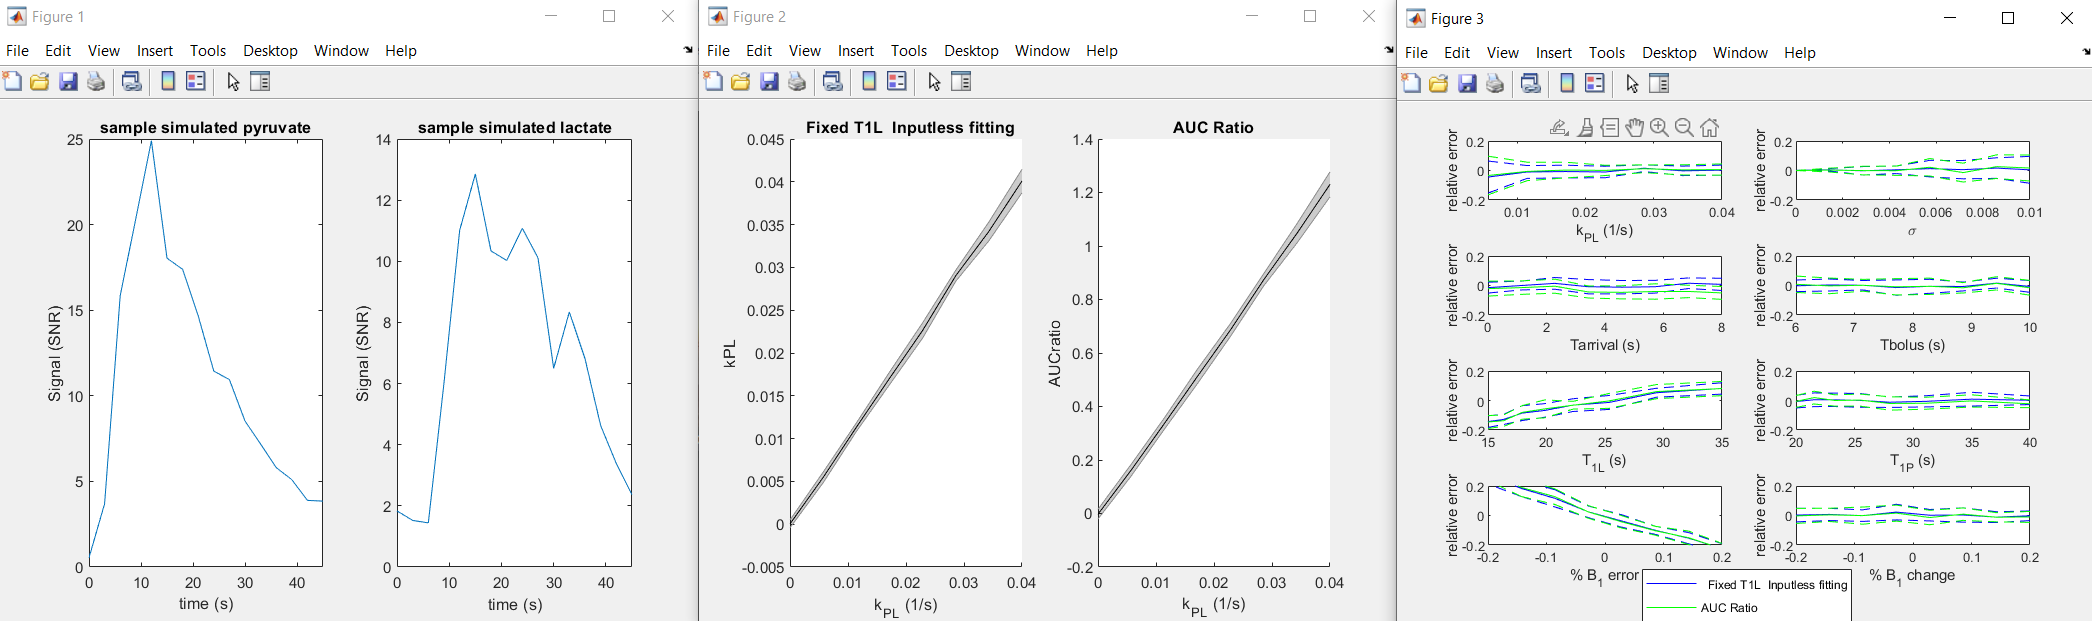
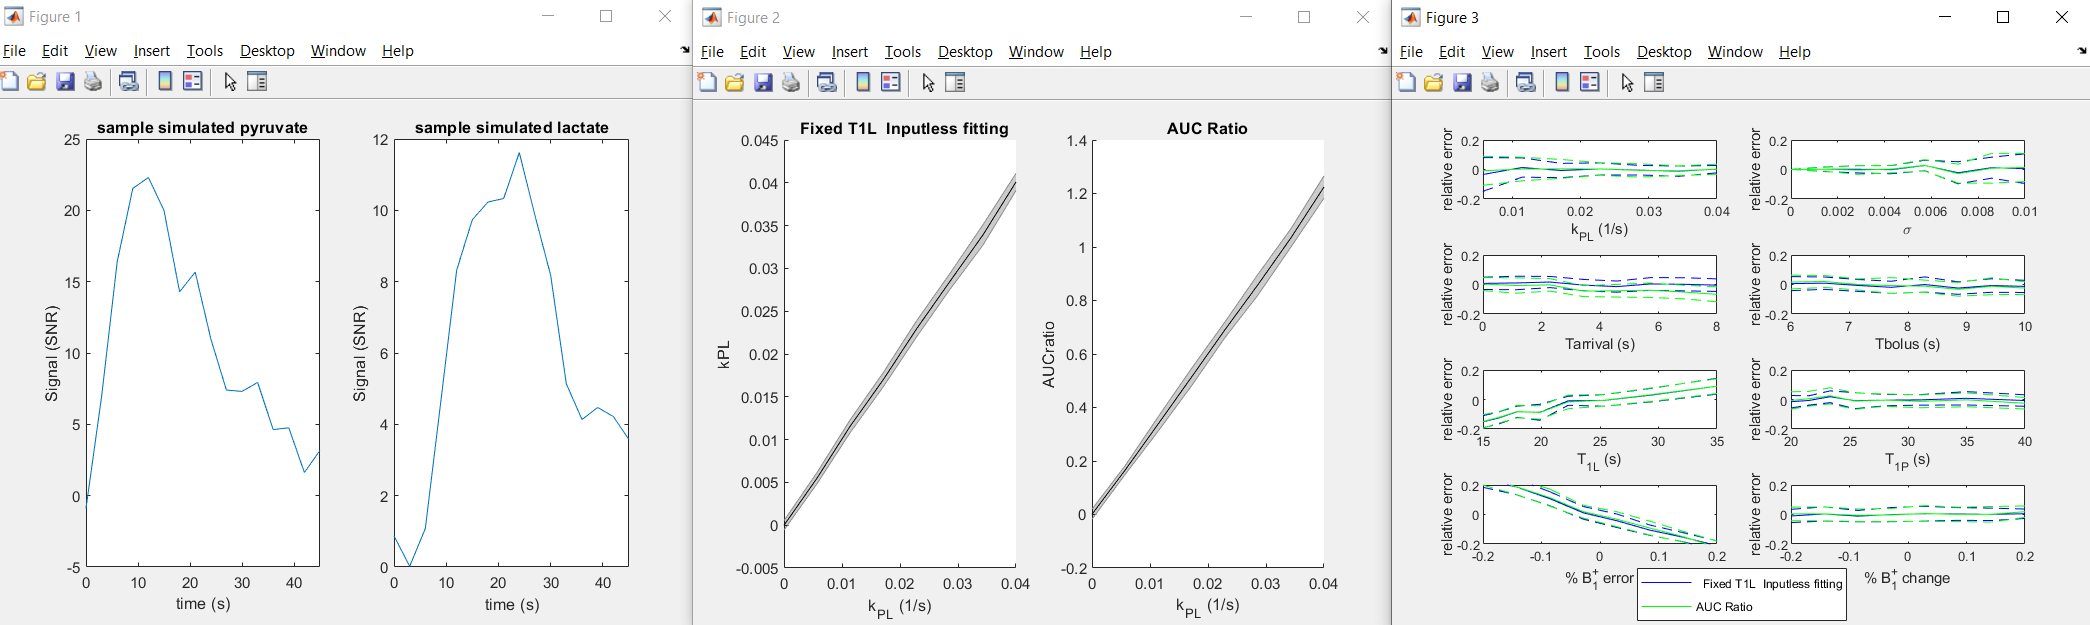
HP Monte Carlo Simulation: Minor updates

diff --git a/simulations/HP_montecarlo_evaluation.m b/simulations/HP_montecarlo_evaluation.m
@@ -338,7 +338,7 @@ end
 % plot_fit_results(fitting, B1error_test, metric_fits, '% B_1 error');
 
 subplot(Nplot1, Nplot2, Iplot); Iplot = Iplot+1;
-plot_fit_results_normalized(fitting, B1error_test, metric_fits./nominal_metric_matrix-1, '% B_1 error');
+plot_fit_results_normalized(fitting, B1error_test, metric_fits./nominal_metric_matrix-1, '% B_1^+ error');
 xlim([experiment.B1error_min, experiment.B1error_max])
 
 results.B1error_test.B1error_test = B1error_test;
@@ -399,7 +399,7 @@ end
 
 subplot(Nplot1, Nplot2, Iplot); Iplot = Iplot+1;
 plot_fit_results_normalized(fitting, B1diff_test, ...
-    metric_fits./repmat( reshape(nominal_metric_B1diff_test, [N_fitting_methods 1 Nexp_values]), [1, experiment.NMC 1])-1, '% B_1 change')
+    metric_fits./repmat( reshape(nominal_metric_B1diff_test, [N_fitting_methods 1 Nexp_values]), [1, experiment.NMC 1])-1, '% B_1^+ change')
 xlim([experiment.B1diff_min, experiment.B1diff_max])
 
 results.B1diff_test.B1diff_test = B1diff_test;
